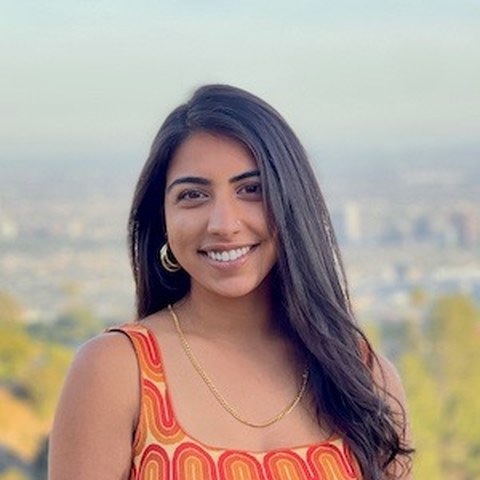
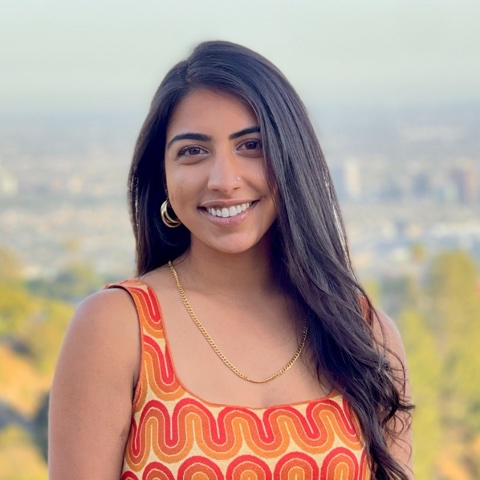
Roshni: sharper 800px photo on About, her team page and mentor profile

diff --git a/team/roshni-lulla/index.html b/team/roshni-lulla/index.html
@@ -80,7 +80,7 @@
                 <p class="team-links"><a href="https://www.linkedin.com/in/roshni-lulla/" aria-label="Roshni Lulla on LinkedIn" title="LinkedIn" target="_blank" rel="noopener"><svg viewBox="0 0 24 24" width="18" height="18" fill="currentColor" aria-hidden="true"><path d="M20.45 20.45h-3.56v-5.57c0-1.33-.03-3.04-1.85-3.04-1.86 0-2.14 1.45-2.14 2.94v5.67H9.35V9h3.41v1.56h.05c.48-.9 1.64-1.85 3.37-1.85 3.6 0 4.27 2.37 4.27 5.46v6.28zM5.34 7.43a2.06 2.06 0 1 1 0-4.13 2.06 2.06 0 0 1 0 4.13zM7.12 20.45H3.56V9h3.56v11.45zM22.22 0H1.77C.79 0 0 .77 0 1.73v20.54C0 23.23.79 24 1.77 24h20.45c.98 0 1.78-.77 1.78-1.73V1.73C24 .77 23.2 0 22.22 0z"/></svg></a></p>
             </div>
             <div class="person-photo">
-                <img src="../../images/team/roshni-lulla-960.jpg" srcset="../../images/team/roshni-lulla-480.jpg 480w, ../../images/team/roshni-lulla-960.jpg 960w" sizes="(max-width: 720px) 100vw, 420px" alt="Roshni Lulla" width="480" height="480">
+                <img src="../../images/team/roshni-lulla-800.jpg" srcset="../../images/team/roshni-lulla-480.jpg 480w, ../../images/team/roshni-lulla-800.jpg 800w" sizes="(max-width: 720px) 100vw, 420px" alt="Roshni Lulla" width="480" height="480">
             </div>
         </section>
     </main>

diff --git a/about/index.html b/about/index.html
@@ -105,7 +105,7 @@
                 </li>
                 <li>
                     <a class="team-card" href="../team/roshni-lulla/">
-                        <img src="../images/team/roshni-lulla-480.jpg" srcset="../images/team/roshni-lulla-480.jpg 480w, ../images/team/roshni-lulla-960.jpg 960w" sizes="(max-width: 720px) 50vw, 280px" alt="" width="480" height="480" loading="lazy">
+                        <img src="../images/team/roshni-lulla-480.jpg" srcset="../images/team/roshni-lulla-480.jpg 480w, ../images/team/roshni-lulla-800.jpg 800w" sizes="(max-width: 720px) 50vw, 280px" alt="" width="480" height="480" loading="lazy">
                         <span class="team-name">Roshni Lulla</span>
                     </a>
                     <p class="team-role">Co-organizer</p>
